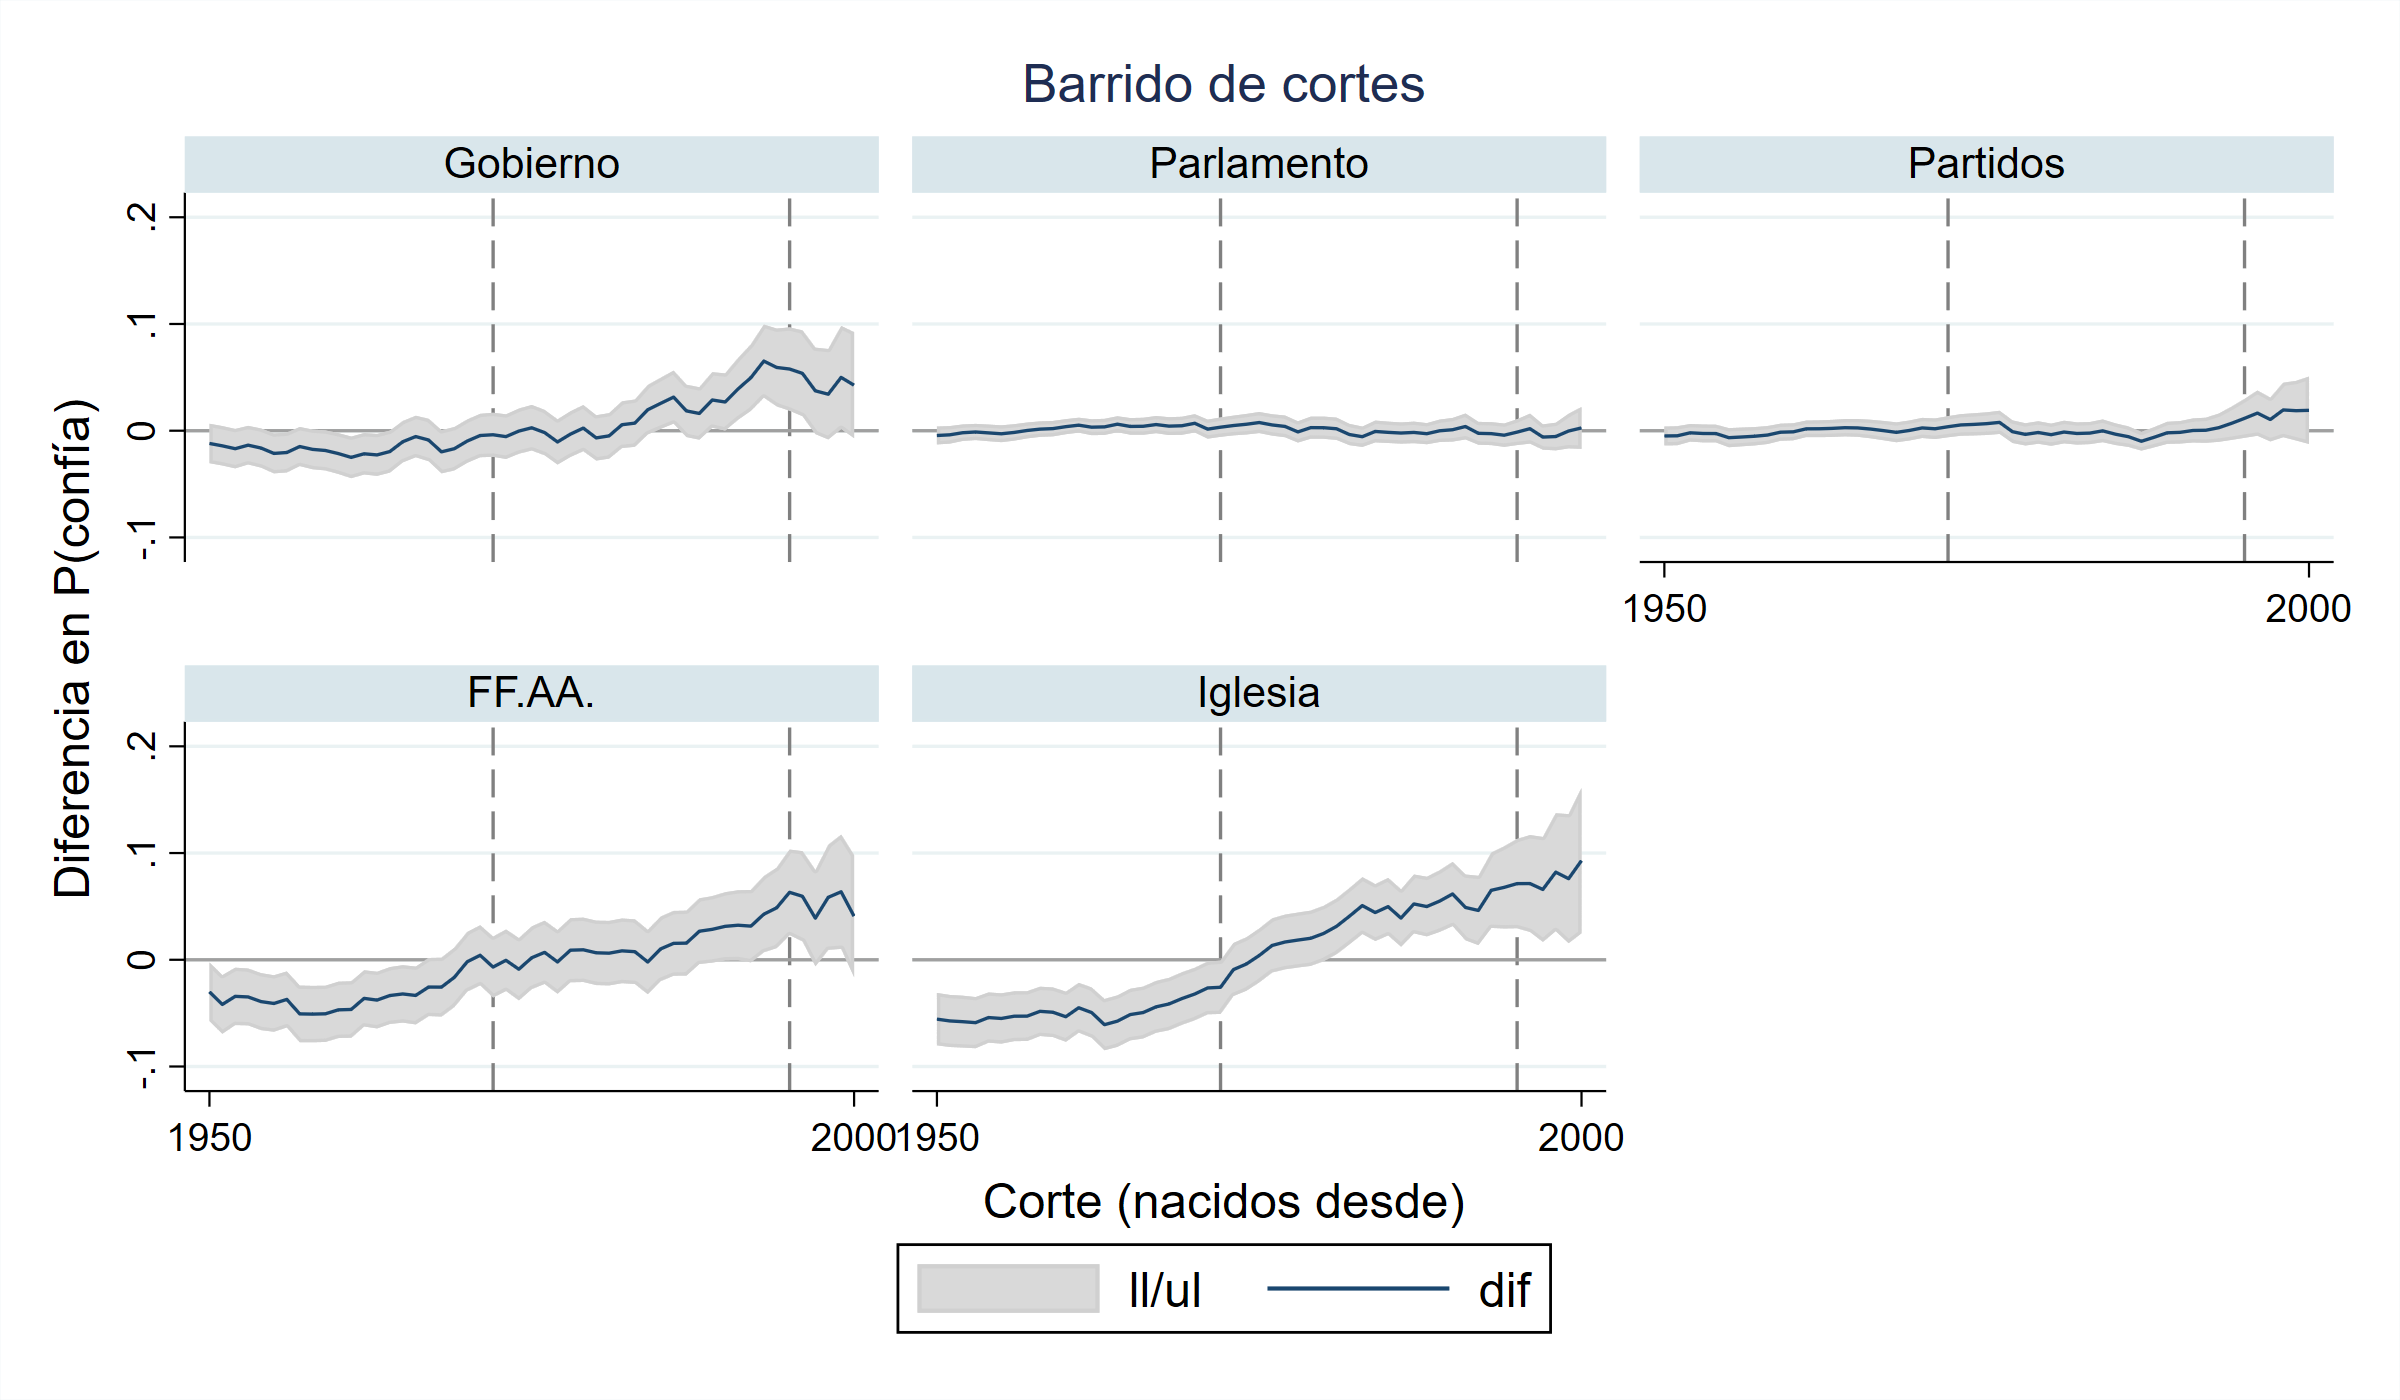
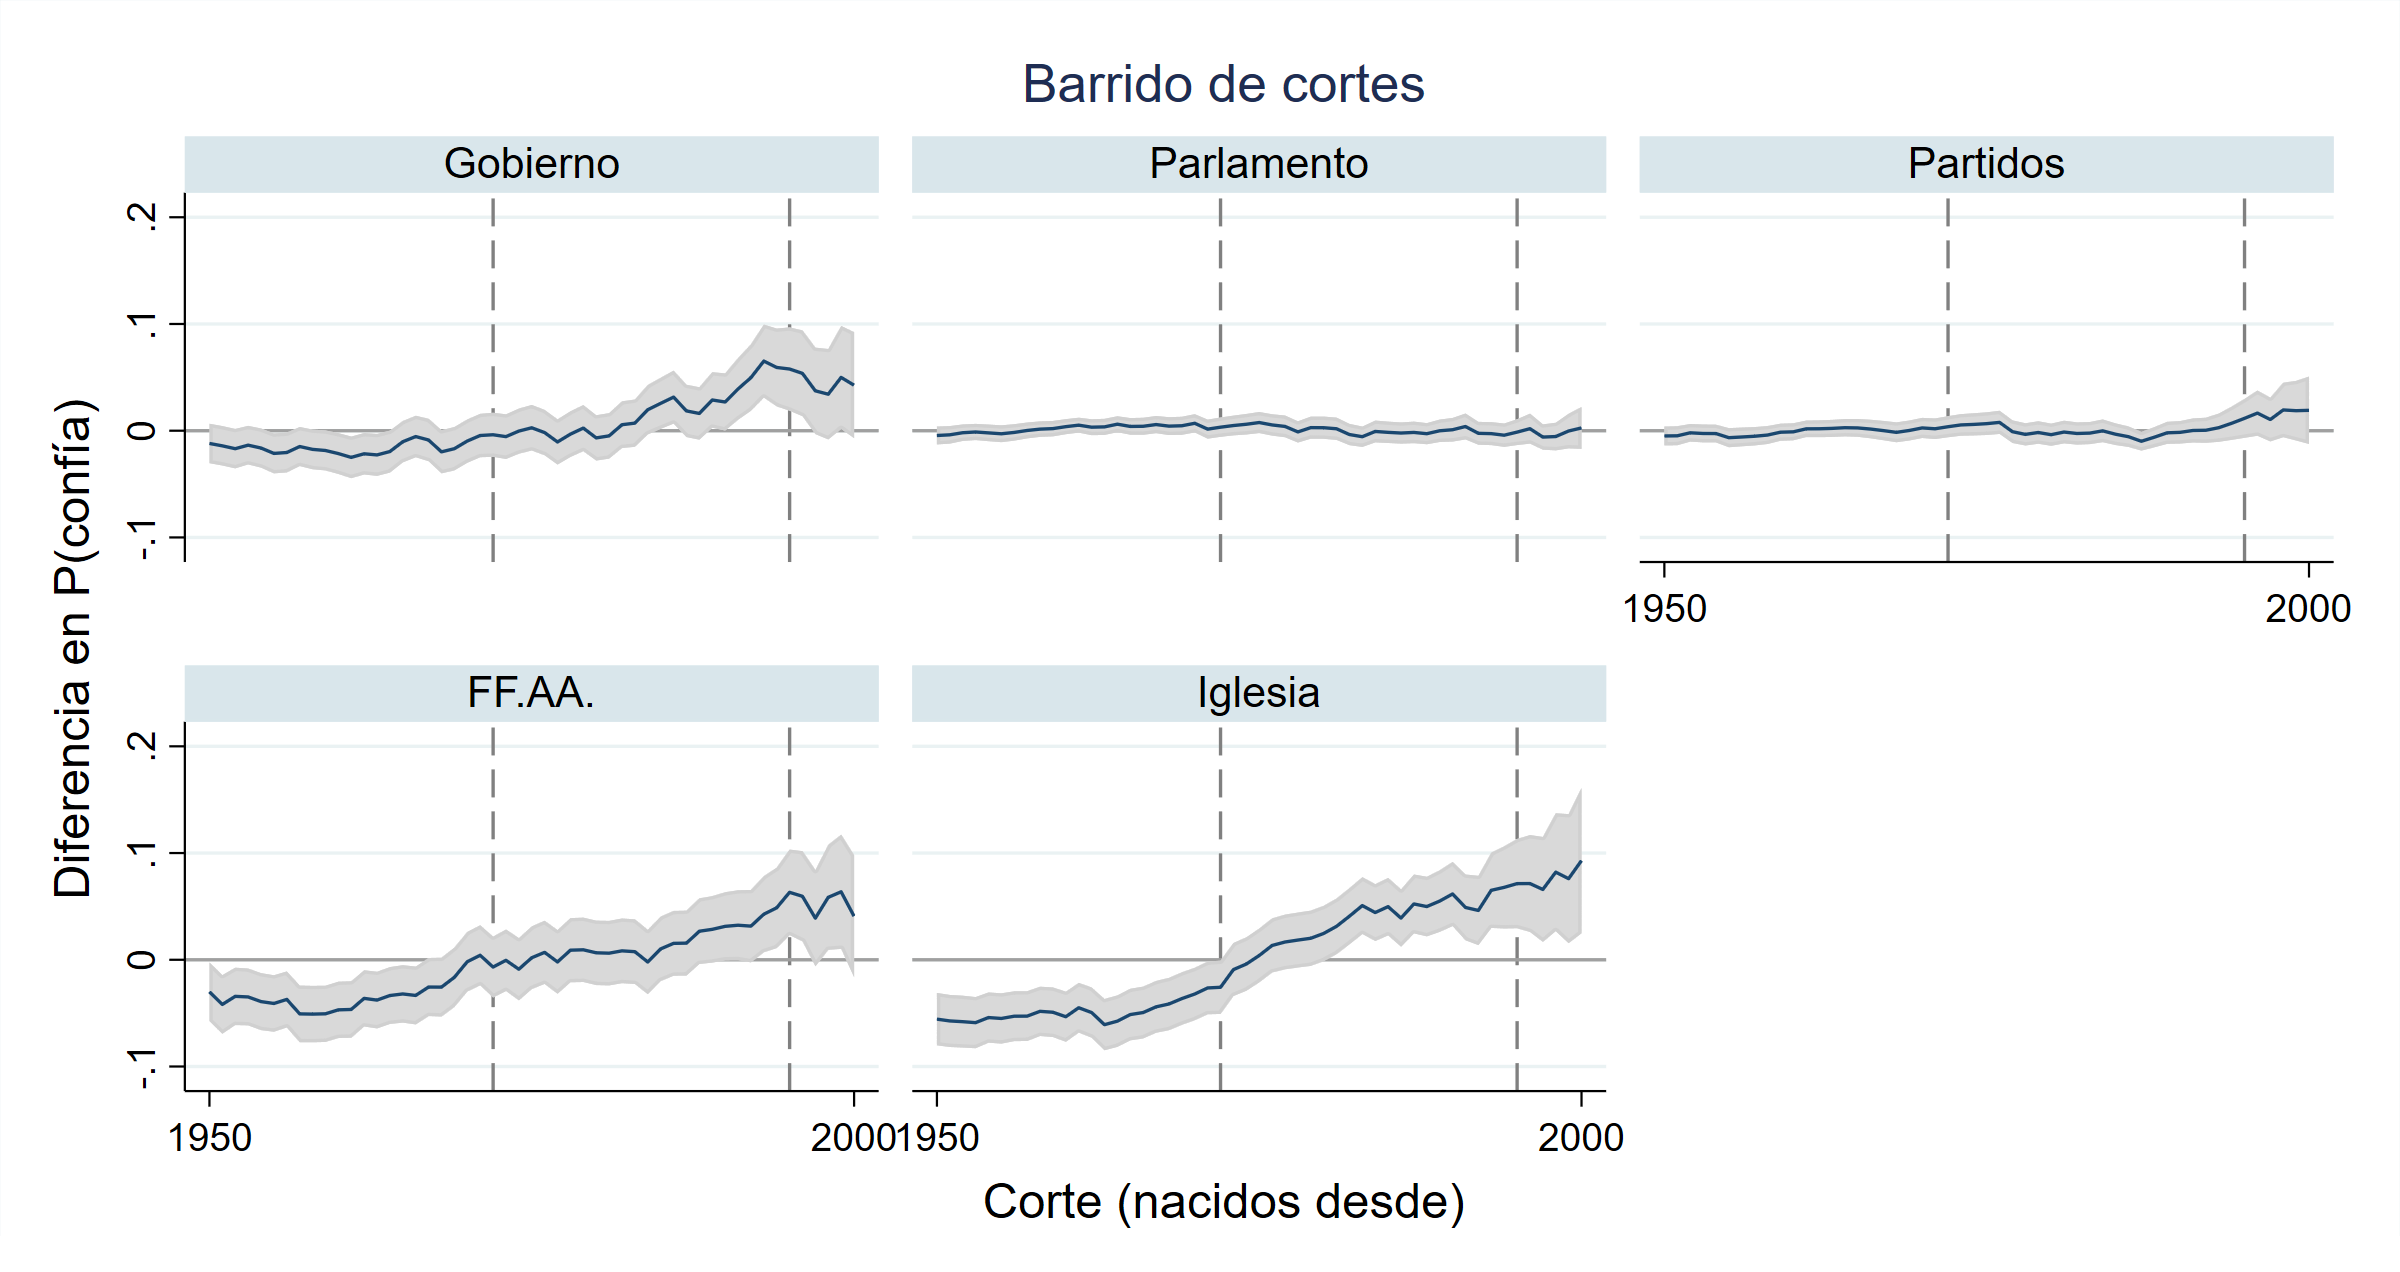
Figura 12 sin leyenda y con nota al pie en el README

Changed region(s): [[0.0, 0.2146, 1.0, 0.9811], [0.0625, 0.0307, 0.9688, 0.1533], [0.0625, 0.8892, 0.0938, 0.9198]]

diff --git a/README.md b/README.md
@@ -152,9 +152,11 @@ Con el corte único de 1972, en cambio, no aparece diferencia en ninguna institu
 
 *Corte año a año*
 
-Es la misma idea de la figura 8, pero con este logit, moviendo el corte año a año entre 1950 y 2000 y usando todas las olas en todos los cortes (sin cruzarlo con el año de encuesta).
+Es la misma comparación de la figura 8, con el corte movido año a año entre 1950 y 2000.
 
 <p align="center"><img src="Principal/12_barrido_cortes.png" width="700"></p>
+
+<sub>Cada punto es el efecto marginal de un logit (nacidos desde el año del eje x vs. nacidos antes) sobre P(confía). Un logit por corte, con efectos fijos de año, log de la edad, sexo, educación y NSE, ponderado, olas 2006-2025. Banda gris: IC 95%. Punteadas: cortes 1972 y 1995.</sub>
 
 En Gobierno la diferencia sube de forma gradual desde las cohortes de los sesenta, es significativa desde el corte en 1985 y llega a su máximo con el corte en 1993 (+6,5 puntos). Con el corte en 1995 es de +5,8 puntos (p = 0,004). En FF.AA. es negativa con los cortes tempranos, se mantiene cerca de cero entre los setenta y los ochenta y sube desde 1993, con máximo en 1999 (+6,4). Con el corte en 1995 es de +6,3 puntos (p = 0,002). En ambas el corte en 1972 da una diferencia nula. Iglesia tiene una pendiente continua: con los cortes tempranos la diferencia es negativa (las cohortes más antiguas confían más de lo que predice su edad), cruza el cero poco después de 1972 y sigue subiendo hasta el final, con diferencias significativas desde el corte en 1981. Hay un gradiente de cohorte, pero no un quiebre. Parlamento y Partidos quedan en torno a cero con cualquier corte.
 
